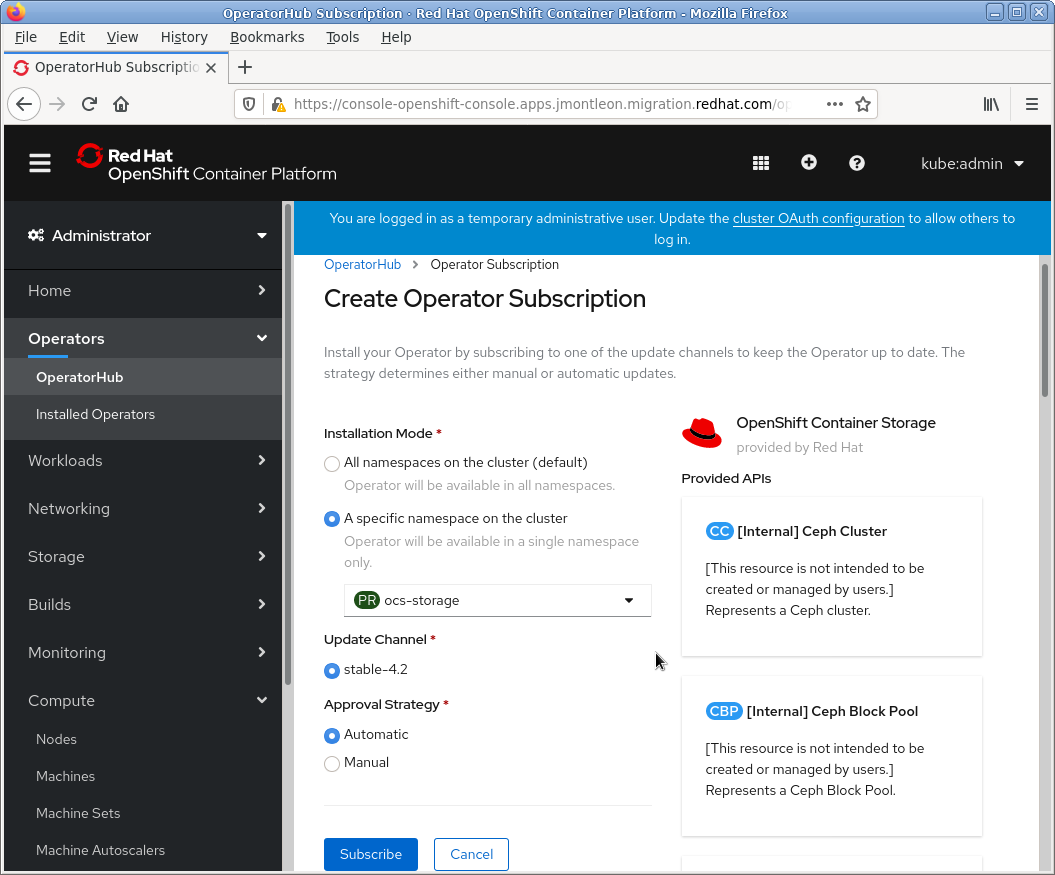
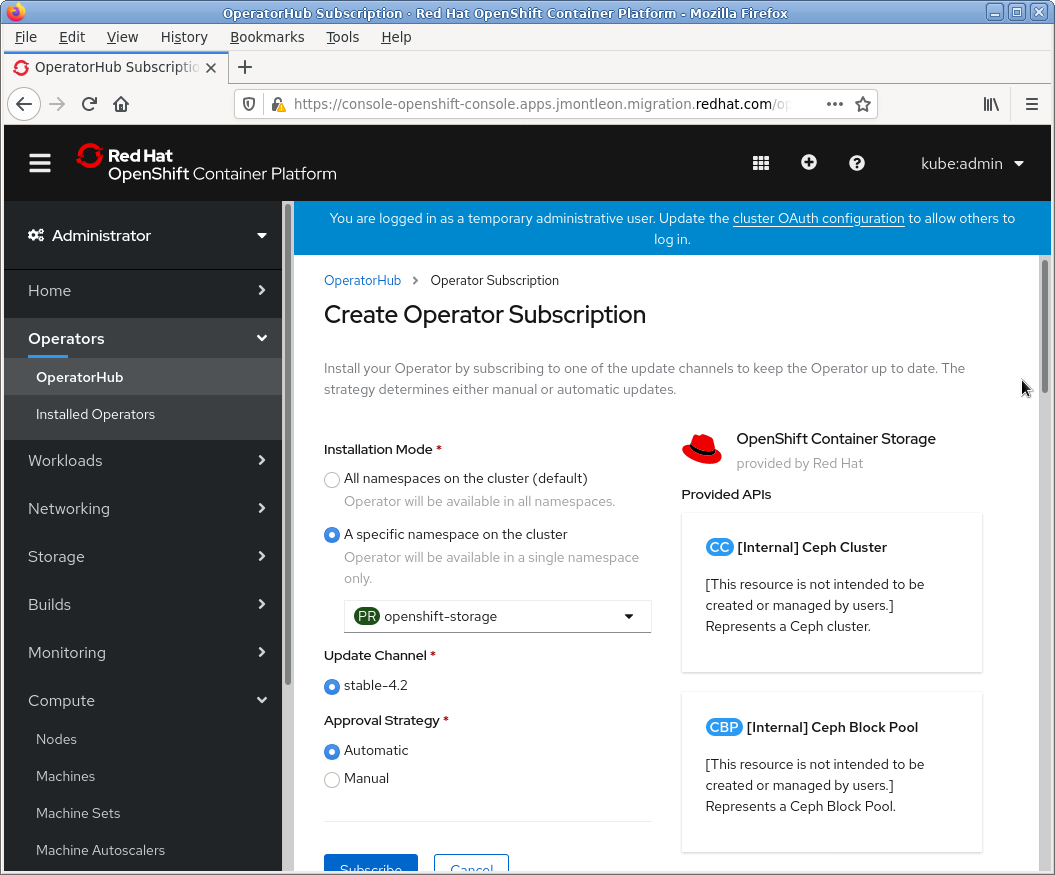
Update ns

diff --git a/cam-ocs-pvpool/README.md b/cam-ocs-pvpool/README.md
@@ -12,7 +12,7 @@ Create the requisite namespaces
 Use oc to create the namespaces:
 ```
 oc create namespace openshift-migration
-oc create namespace ocs-storage
+oc create namespace openshift-storage
 ```
 
 Install OCS
@@ -23,45 +23,8 @@ Navigate to OperatorHub in the Openshift Console
 Search for OCS
 ![Search for OCS](https://github.com/jmontleon/blogpost/blob/master/cam-ocs-pvpool/OCSSearch.png)
 
-Install OCS in the ocs-storage namespace
+Install OCS in the openshift-storage namespace
 ![Install OCS](https://github.com/jmontleon/blogpost/blob/master/cam-ocs-pvpool/OCSInstall.png)
-
-Create the Noobaa System
-------------------------
-Add the contents below to `noobaa.yml` If you're testing in a small cluster it may be necessary to reduce the CPU requests to `0.1`. Then run `oc create -f noobaa.yml`.
-
-```
-apiVersion: noobaa.io/v1alpha1
-kind: NooBaa
-metadata:
-  name: noobaa
-  namespace: ocs-storage
-spec:
- dbResources:
-   requests:
-     cpu: 0.5
-     memory: 1Gi
- coreResources:
-   requests:
-     cpu: 0.5
-     memory: 500Mi
-```
-
-
-
-PV Pool and Bucket
-------------------
-```
-
-```
-
-```
-
-```
-
-```
-
-```
 
 Install CAM
 -----------
@@ -82,6 +45,84 @@ Select MigrationController
 
 Click Create
 ![Create MC](https://github.com/jmontleon/blogpost/blob/master/cam-ocs-pvpool/CreateMC.png)
+
+Create the Noobaa System
+------------------------
+Add the contents below to `noobaa.yml` If you're testing in a small cluster it may be necessary to reduce the CPU requests to `0.1`. Then run `oc create -f noobaa.yml`.
+
+```
+apiVersion: noobaa.io/v1alpha1
+kind: NooBaa
+metadata:
+  name: noobaa
+  namespace: openshift-storage
+spec:
+ dbResources:
+   requests:
+     cpu: 0.5
+     memory: 1Gi
+ coreResources:
+   requests:
+     cpu: 0.5
+     memory: 500Mi
+```
+
+PV Pool and Bucket
+------------------
+Create `bs.yml` with the following contents. You can change the number of volumes, size of the volumes, and the storageClass used for PV's here. In this example our data will be spread across 3 volumes with 50Gi of space each. Run `oc create -f bs.yml` after making any desired edits.
+
+```
+apiVersion: noobaa.io/v1alpha1
+kind: BackingStore
+metadata:
+  finalizers:
+  - noobaa.io/finalizer
+  labels:
+    app: noobaa
+  name: mcg-pv-pool-bs
+  namespace: openshift-storage
+spec:
+  pvPool:
+    numVolumes: 3
+    resources:
+      requests:
+        storage: 50Gi
+    storageClass: gp2
+  type: pv-pool
+```
+
+Create `bc.yml` with the following contents and then run `oc create -f bc.yml`. Alternative placements are possible, but not covered here.
+```
+apiVersion: noobaa.io/v1alpha1
+kind: BucketClass
+metadata:
+  labels:
+    app: noobaa
+  name: mcg-pv-pool-bc
+  namespace: openshift-storage
+spec:
+  placementPolicy:
+    tiers:
+    - backingStores:
+      - mcg-pv-pool-bs
+      placement: Spread
+```
+
+Create `obc.yml` with the following contents. In this example we will create a bucket called `migstorage`. Run `oc create -f obc.yml` after saving the file.
+```
+apiVersion: objectbucket.io/v1alpha1
+kind: ObjectBucketClaim
+metadata:
+  name: migstorage
+  namespace: openshift-storage
+spec:
+  bucketName: migstorage
+  storageClassName: openshift-storage.noobaa.io
+  additionalConfig:
+    bucketclass: mcg-pv-pool-bc
+```
+
+After this resource is created you will want to watch the status and wait for the objectbucketclaim status to change to `Bound`. This may take 5-10 minutes and can be watched with the command `watch -n 30 'oc get -n openshift-storage objectbucketclaim migstorage -o yaml'`. The noobaa-operator logs can also be monitored for progress.
 
 Create the Replication Repository
 ---------------------------------
